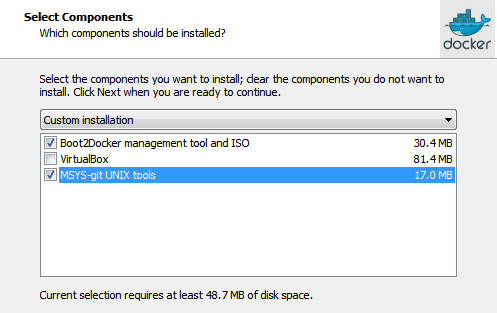
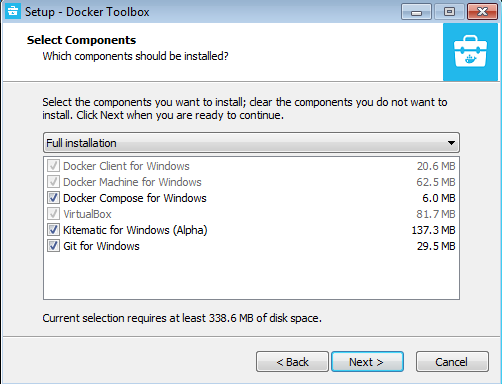
Update instructions to use Docker Toolbox instead of boot2docker

Changed region(s): [[0.0, 0.0, 1.0, 1.0]]

diff --git a/readme.md b/readme.md
@@ -1,58 +1,60 @@
-Docker with boot2docker for Windows Tutorial
-============================================
+Docker with Docker Toolbox for Windows Tutorial
+===============================================
 
-This tutorial walks you through the basics of using a Java app server (WildFly) via a Linux container, running on Windows with boot2docker.  We have been testing this tutorial on Windows 7 and 8.1, you will notice that the screenshots come from either of those versions as this document has been tested and maintained.
+This tutorial walks you through the basics of using a Java app server (WildFly) via a Linux container, running on Windows with  Docker Toolbox.  We have been testing this tutorial on Windows 7 and 8.1, you will notice that the screenshots come from either of those versions as this document has been tested and maintained.
 
 There are notes for people running on Macs as well.
 
-First follow [installation steps](https://docs.docker.com/installation/windows/) for boot2docker:
+
+First follow [installation steps](https://docs.docker.com/windows/step_one/) for Docker Toolbox:
 
 ![Alt text](/screenshots/installer.png?raw=true "Installer")
 
-Unless you already have VirtualBox installed, install all the components.
+Install all the components.
 
-> Mac: The docker and boot2docker binaries are in `/usr/local/bin` which you can access from your terminal.
-> Windows: The boot2docker binary lands in `C:\Program Files\Boot2Docker` for Windows
+> Mac: The docker binaries are in `/usr/local/bin` which you can access from your terminal.
 
-* * *
-##### Tip 1: where does the boot2docker VM ISO land on a Windows?
-Windows: `C:\Users\Burr\.boot2docker\boot2docker.iso`
-
-Mac: `~/.boot2docker/boot2docker.iso`
-* * *
-
-##### Tip 2: where does the boot2docker instance land on Windows installation of VirtualBox
-
-C:\Users\Burr\VirtualBox VMs\boot2docker-vm
+> Windows: The docker binaries lands in `C:\Program Files\Docker Toolbox` for Windows
 
 * * *
-##### Tip 3: Window Size Width 160 - docker ps is best displayed with lots of width
+##### Tip 1: Where does the boot2docker VM ISO land on a Windows?
+Windows: `C:\Users\<your_username>\.docker\machine\cache\boot2docker.iso`
 
-You can make this change on the Boot2Docker Start command window as well
+Mac: `~/.docker/machine/cache/boot2docker.iso`
+* * *
+
+##### Tip 2: Where does the docker-machine default instance land on Windows installation of VirtualBox?
+
+`C:\Users\<your_username>\.docker\machine\machines\default\default`
+
+* * *
+##### Tip 3: Window Size Width 160 - docker ps is best displayed with lots of width.
+
+You can make this change on the  `Docker Quickstart Terminal` command window as well
 
 ![Alt text](/screenshots/cmd_properties.png?raw=true "cmd.exe Properties")
 
 
 * * *
 
-##### Tip 4: VirtualBox before `boot2docker init`
+##### Tip 4: VirtualBox before any `docker-machyine` instance.
 ![Alt text](/screenshots/virtualbox_before_boot2docker.png?raw=true "VirtualBox Before")
-> VirtualBox installed prior to boot2docker has no mention of boot2docker until we use `boot2docker init`.
-> Also, if you have previously installed boot2docker, you can often use `boot2docker upgrade` to simply update to the latest version.
+> VirtualBox installed prior to Docker Toolbox has no mention of any docker-machine until we create any docker-machine host.
+> Also, if you have previously installed Docker Toolbox, you can often use `docker-machine upgrade <docker host name> ` to simply update to the latest version.
 * * *
 
 #### Explore Docker
 
-1. Look for and select the `Boot2Docker Start` menu option in your Start Menu
+1. Look for and select the `Docker Quickstart Terminal` menu option in your Start Menu
 
-    ![Alt text](/screenshots/boot2docker_start_menu.png?raw=true "Start Menu")
+    ![Alt text](/screenshots/docker_quickstart_terminal.png?raw=true "Start Menu")
 
     >
     > Or use start.sh to launch the command prompt (not the normal Windows command prompt)
     >
-    > You should be able to double-click on start.sh in C:\Program Files\Boot2Docker for Windows
+    > You should be able to double-click on start.sh in C:\Program Files\Docker Toolbox
 
-    ![Alt text](/screenshots/boot2docker_start_sh.png?raw=true "start.sh")
+    ![Alt text](/screenshots/docker_toolbox_start.png?raw=true "start.sh")
 
 
     > If you successfully launch start.sh, it will execute `up`, `status` and `ip`, therefore you can skip to step 8 below.
@@ -60,85 +62,35 @@ You can make this change on the Boot2Docker Start command window as well
 
     ![Alt text](/screenshots/start_sh_running.png?raw=true "start.sh running")
 
-    > If there are error messages (and there normally are for a brand new installation), read steps 2 through 7 for some alternative ways to get boot2docker up and happy
+2. You might also execute docker-machine commands from the Windows (DOS) Command Prompt aka "cmd.exe" and type
+
+    `docker-machine version`
+
+    ![Alt text](/screenshots/docker_machine_version.png?raw=true "Command Prompt boot2docker version")
+
+3. `docker-machine.exe create -d virtualbox default`
+    ![Alt text](/screenshots/docker_machine_create.png?raw=true "docker_machine_create")
+    > You should see the docker host called default listed in VirtualBox Manager
+
+    ![Alt text](/screenshots/virtualbox_after_create.png?raw=true "VirtualBox After")
+
+4. `docker-machine status default`
+    > Note: When it is time to shutdown, run `docker-machine stop default`
+
+5. `docker-machine env default`
+    ![Alt text](/screenshots/docker_machine_env.png?raw=true "docker-machine env default")
+
+    > This will show all environments variables needed to connect to the docker-machine host called default
 
 
-2. You might also execute boot2docker commands from the Windows (DOS) Command Prompt aka "cmd.exe" and type
+6. `docker-machine env --shell cmd default`
 
-    `boot2docker version`
+    ![Alt text](/screenshots/docker_machine_env_cmd.png?raw=true "docker-machine env --shell cmd default")
 
-    ![Alt text](/screenshots/boot2docker_version.png?raw=true "Command Prompt boot2docker version")
-    > Note: We have seen this fail on some systems.  There will be some workarounds listed in step 3 below.
+    > Alternatively you can specify which type of shell you are using. So the proper instructions for environments variables will be created.
 
-    > Tip: on Windows 8.1, the Command Prompt is accessible if you hit the Windows key and X then C on the keyboard
-
-3. `boot2docker init`
-    ![Alt text](/screenshots/boot2docker_init.png?raw=true "boot2docker init")
-    > You should see the boot2docker-vm listed in VirtualBox Manager
-
-    ![Alt text](/screenshots/virtualbox_after_boot2docker.png?raw=true "VirtualBox After")
-
-    > Note: This might result in
-
-    ````
-    error in run: Error generating new SSH Key into C:\Users\Burr\.ssh\id_boot2docker: exec: "ssh-keygen": executable file not found in %PATH%
-    ````
-
-    > If so, then fall back to the Boot2Docker Start menu option calling "start.sh".
-
-    There is another SSH related error that shows up, basically ssh.exe can not be found in the %PATH%.
-    Use Control Panel to add the C:\Program Files(x86)\Git\bin to your PATH
-
-    ![Alt text](/screenshots/adding_ssh_to_PATH.png?raw=true "Adding ssh to PATH")
-
-
-
-
-4. `boot2docker up`
-
-    Look for the following on _Windows_:
-
-    ![Alt text](/screenshots/after_boot2docker_up.png?raw=true "boot2docker up")
-
-    > Now, if you check the VirtualBox GUI you will see the `boot2docker-vm` running:
-
-    ![Alt text](/screenshots/after_boot2docker_up_virtual_box.png?raw=true "boot2docker up results in VirtualBox")
-
-    > Watch out for "VT-x is disabled in BIOS" errors
-    > If virtualization has not been enabled in your machines BIOS, you could see the following error:
-
-    ![Alt text](/screenshots/virtualization_error.png?raw=true "virtualization error")
-
-    > Or, if you hit the Start button inside the VirtualBox Manager directly
-
-    ![Alt text](/screenshots/VT-x_error_VirtualBox.png?raw=true "virtualization error in VirtualBox Manager")
-
-    > If you see this error, you will need to update your BIOS settings accordingly.  
-
-    > BIOS for Lenovo T440s
-
-    ![Alt text](/screenshots/bios_lenovo_t440s.jpg?raw=true "Virtualization in Lenovo T440s BIOS")
-
-
-    Watch for the following on _Mac OSX_:
-
-    ![Alt text](/screenshots/macosx_env_vars.png?raw=true "Mac OSX Env Vars")
-
-    Copy and paste the export statements you are provided with in to your terminal. If you get this step wrong, when you try further commands, you may see an error message like:
-
-    ![Alt text](/screenshots/failed_macosx_env_vars.png?raw=true "Fail Mac OSX Env Vars")
-
-
-5. `boot2docker status`
-    > Note: When it is time to shutdown, run `boot2docker down`
-
-6. `boot2docker ip`
-    ![Alt text](/screenshots/boot2docker_ip.png?raw=true "boot2docker ip")
-
-    > You will need this later!
-
-7. `boot2docker ssh`
-    ![Alt text](/screenshots/boot2docker_ssh.png?raw=true "boot2docker ssh")
+7. `docker-machine ssh default`
+    ![Alt text](/screenshots/docker_machine_ssh.png?raw=true "docker-machine ssh default")
 
     > From this point forward, you will be inside of a Linux shell, using Linux commands
 
@@ -169,16 +121,17 @@ You can make this change on the Boot2Docker Start command window as well
 
     > Note: the container stops as soon as it finishes the /bin/echo command
 
-14. On Windows, with boot2docker 1.3.x, the Users directory is shared as `/c/Users`
+14. On Windows, with docker-machine, the Users directory is shared as `/c/Users`
 
     `ls /c/Users`
+
     ![Alt text](/screenshots/ls_users.png?raw=true "ls /c/Users")
 
     This shared folder will allow you to add and edit files using your traditional Windows tools instead of having to learn vi or nano.
 
     Using your File Explorer, create a `demo` sub-directory to your home directory and then use a `ls -l` to see it via the boot2docker-vm (in this example `Burr` is the username):
 
-    `ls -l /c/Users/Burr/demo`
+    `ls -l /c/Users/<your_username>/demo`
 
     ![Alt text](/screenshots/ls_l_c_users_Burr_demo.png?raw=true "ls -l /c/Users/Burr/demo")
 
@@ -247,8 +200,8 @@ You can make this change on the Boot2Docker Start command window as well
 
     ![Alt text](/screenshots/docker_run_it_p_8080_8080.png?raw=true "docker run -it -p 8080:8080 centos/wildfly")
 
-    If you remember the IP address you can use your favorite browser to hit the server.
-    If you forgot to make note of your IP address earlier, you can open another session into boot2docker.  Just go back to the Windows Start menu and select `Boot2Docker Start` or run start.sh.  You might wish to keep both boot2docker sessions open as it allows you to docker run an app server via "-it" in one window and then "docker ps" or "docker logs" in another window.
+    Each docker container process runs inside the docker host called `default` created by docker-machine previously.
+    To get the ip of the docker host, just open another CMD.exe terminal and type `docker-machine ip default`.
 
     ![Alt text](/screenshots/browser_wildfly.png?raw=true "http://192.168.59.103:8080")
 
@@ -262,19 +215,19 @@ You can make this change on the Boot2Docker Start command window as well
 
 #### Modify the image and provide our own custom Java application
 
-1. If you remember way back to `ls /c/Users/Burr/demo`, the `Users` directory on your Windows host
-is shared with the boot2docker-vm (thanks to VirtualBox Guest Additions). In your home directory, create a directory called `docker_projects` that is a sibling of `demo`.
-You can create the directory from within the boot2docker-vm with the following command (or just use File Explorer).
+1. If you remember way back to `ls /c/Users/<your_username>/demo`, the `Users` directory on your Windows host
+is shared with the docker `default` host (thanks to VirtualBox Guest Additions). In your home directory, create a directory called `docker_projects` that is a sibling of `demo`.
+You can create the directory from within the docker-machine host `default` with the following command (or just use File Explorer).
 
     ````
-    mkdir /c/Users/Burr/docker_projects
+    mkdir /c/Users/<your_username>/docker_projects
     ````
     > Use your home directory name in place of "Burr"
 
     and then create a sub-directory called `myapp`
 
     ````
-    mkdir /c/Users/Burr/docker_projects/myapp
+    mkdir /c/Users/<your_username>/docker_projects/myapp
     ````
 
     > You can create the "myapp" directory via Windows Explorer or the boot2docker-vm shell
@@ -284,7 +237,7 @@ You can create the directory from within the boot2docker-vm with the following c
     and then change to the directory, it is important that you do this inside of the boot2docker-vm shell
 
     ````
-    cd /c/Users/Burr/docker_projects/myapp
+    cd /c/Users/<your_username>/docker_projects/myapp
     ````
 
 2. In the `myapp` directory, create a text file called `Dockerfile`, with no extension.
@@ -338,11 +291,11 @@ You can create the directory from within the boot2docker-vm with the following c
 
 
 
-6. And test the app via your browser <http://192.168.59.105:8080/javaee6angularjs>
+6. And test the app via your browser <http://192.168.99.100:8080/javaee6angularjs>
 
-    > The IP address in my screenshots change from time to time as this document has been maintained. Just make sure to remember YOUR IP address as seen via start.sh or boot2docker ip
+    > The IP address in my screenshots change from time to time as this document has been maintained. Just make sure to remember YOUR IP address as seen via `docker-machine ip default`
 
-    ![Alt text](/screenshots/browser_javaee6angularjs_myapp.png?raw=true "http://192.168.59.105:8080/javaee6angularjs")
+    ![Alt text](/screenshots/browser_javaee6angularjs_myapp.png?raw=true "http://192.168.99.100:8080/javaee6angularjs")
 
     > Now it is time for a victory dance around the room! You have your first Java EE application deployed as part of a Docker container.
     > Remember, Ctrl-C to shut down the app server.
@@ -430,26 +383,6 @@ OPTIONAL - Clean Slate: If you wish to completely clean up and run through the a
     ````
 
     > watch those back ticks again
-
-3. Exit the boot2docker-vm shell, back at the Windows Command Prompt
-
-    ````
-    boot2docker down
-    boot2docker destroy
-    ````
-
-    or if boot2docker from the command line is causing you problems, there is
-    "Delete Boot2Docker VM" Start menu option which maps to delete.sh
-
-
-    and to re-make the boot2docker-vm
-
-    ````
-    boot2docker init
-    boot2docker up
-    ````
-
-    > On Windows `C:\Users\burr\.boot2docker` contain files associated with your installation and I have seen .boot2docker not be uninstalled properly, manual deletion may be necessary
 
 Check out the follow-on tutorial for adding MySQL.
 <https://github.com/burrsutter/docker_mysql_tutorial>
